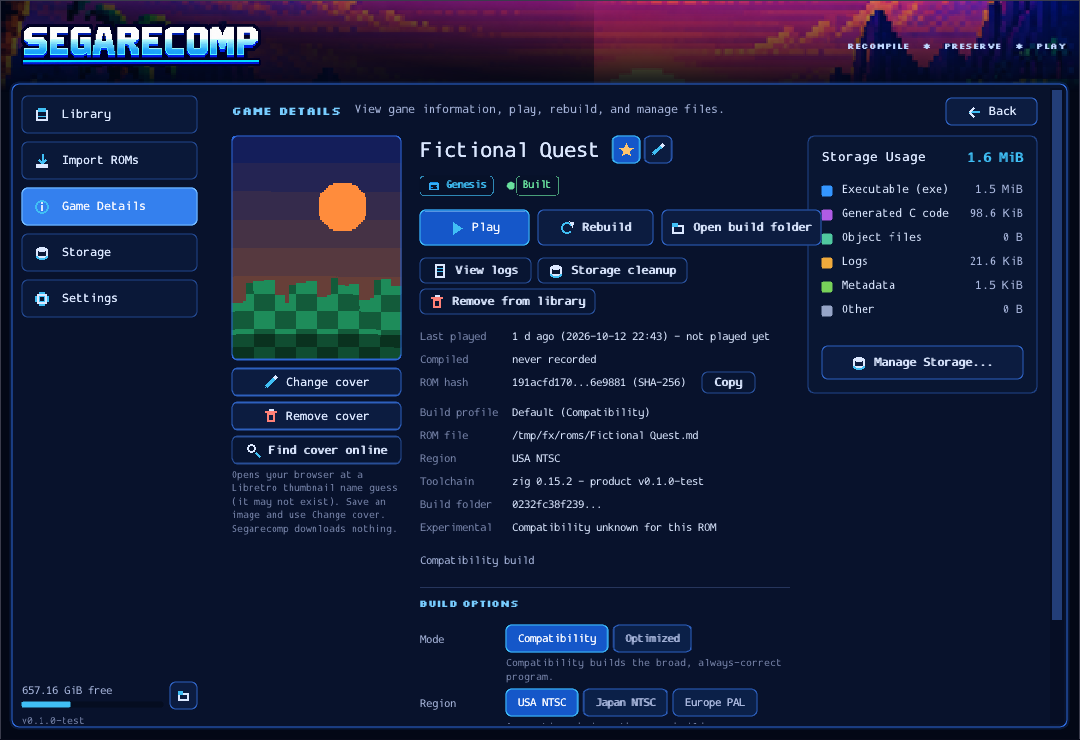
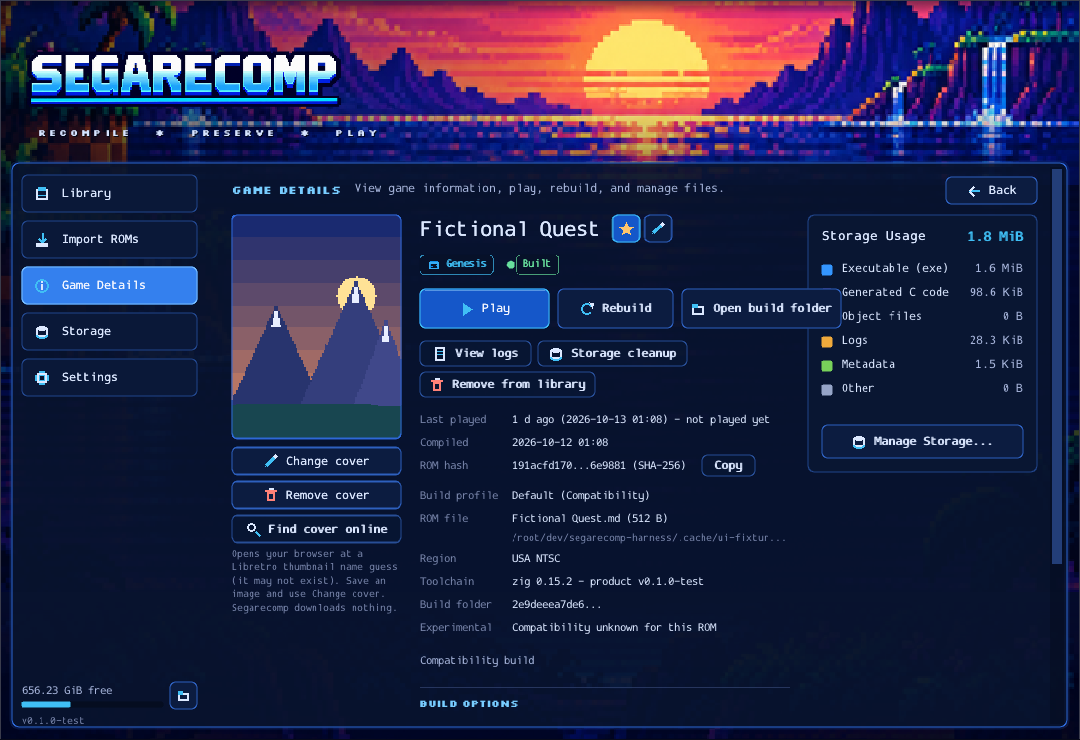
Screenshots of the new binaries (launcher, states, viewer Genesis/SMS, input diagnostics); review hooks; Play button

diff --git a/libs/viewer/test/sv_gallery.c b/libs/viewer/test/sv_gallery.c
@@ -1,7 +1,7 @@
 /* SEG-058: renders the shared viewer's screens from a FICTIONAL synthetic picture (no game, no ROM) under the dummy video driver, for
  * documentation screenshots and manual review. Not a test (nothing is asserted) and never shipped.
  *
- *   sv_gallery <out-dir> <genesis|sms> [WxH]
+ *   sv_gallery <out-dir> <genesis|sms|sms224> [WxH]   (sms224: the Master System's 224-line mode)
  *
  * WxH is the window (output) size in pixels (default: the viewer's own default window). SEGARECOMP_ASSETS points at the launcher assets (icons, wordmark);
  * SV_GALLERY_PAD = none | live | raw | locked picks the virtual controller shown on the Controller status page (live: a gamepad with some buttons held;
@@ -113,10 +113,10 @@ int main(int argc, char **argv) {
   SDL_JoystickID pad_id = 0;
   SDL_Joystick *pad_joy = NULL;
   const char *pad_mode = SDL_getenv("SV_GALLERY_PAD");
-  if (argc < 3) { fprintf(stderr, "usage: %s <out-dir> <genesis|sms> [WxH]\n", argv[0]); return 2; }
+  if (argc < 3) { fprintf(stderr, "usage: %s <out-dir> <genesis|sms|sms224> [WxH]\n", argv[0]); return 2; }
   if (argc > 3 && sscanf(argv[3], "%dx%d", &win_w, &win_h) != 2) { fprintf(stderr, "bad size %s\n", argv[3]); return 2; }
   g_out = argv[1];
-  sms = strcmp(argv[2], "sms") == 0;
+  sms = strcmp(argv[2], "sms") == 0 || strcmp(argv[2], "sms224") == 0;
 #if SDL_VERSION_ATLEAST(3, 4, 0)
   g_ext = "png";
 #else
@@ -137,7 +137,7 @@ int main(int argc, char **argv) {
   SDL_setenv_unsafe("SEGARECOMP_VIEWER_SETTINGS", settings, 1);
[1 lines of base64/hex data omitted]
   SDL_setenv_unsafe("SEGARECOMP_LAUNCHED", "1", 1);
-  w = sms ? 256 : 320; h = sms ? 192 : 224;
+  w = sms ? 256 : 320; h = sms ? (strcmp(argv[2], "sms224") == 0 ? 224 : 192) : 224;
   memset(&cfg, 0, sizeof cfg);
   cfg.system = sms ? SV_SYSTEM_SMS : SV_SYSTEM_GENESIS;
   cfg.title = "gallery";

diff --git a/apps/segarecomp-launcher/app.cpp b/apps/segarecomp-launcher/app.cpp
@@ -900,7 +900,18 @@ int App::run() {
     const std::size_t index = static_cast<std::size_t>(std::atoi(shot_page_.c_str() + 8));
     const auto visible = visible_entries();
     if (index < visible.size()) open_details(visible[index]->id());
+    if (SDL_getenv("SEGARECOMP_SHOT_LOG") != nullptr) show_log_ = true;  // review aid: the log panel expanded
   } else if (shot_page_ == "list") { settings_.view = "list"; }
+  if (const char *drop = SDL_getenv("SEGARECOMP_SHOT_DROP")) {  // review aid: import several files at once, as a drag-and-drop would
+    std::vector<std::string> paths;
+    for (std::string rest = drop; !rest.empty();) {
+      const std::size_t cut = rest.find(';');
+      paths.push_back(rest.substr(0, cut));
+      rest = cut == std::string::npos ? std::string() : rest.substr(cut + 1);
+    }
+    start_import(std::move(paths), false);
+    go(Page::import_page);
+  }
   if (SDL_getenv("SEGARECOMP_SHOT_SELECT")) { select_mode_ = true; for (const auto *e : visible_entries()) { selected_.insert(e->id()); if (selected_.size() >= 2) break; } }
   bool running = true;
   while (running) {
@@ -942,7 +953,7 @@ int App::run() {
     SDL_SetRenderDrawColor(renderer_, 8, 11, 26, 255);
     SDL_RenderClear(renderer_);
     ImGui_ImplSDLRenderer3_RenderDrawData(ImGui::GetDrawData(), renderer_);
-    if (!shot_path_.empty() && frame_ >= shot_frame_ && !status_pending_ && !scanning_ && !job_) {
+    if (!shot_path_.empty() && frame_ >= shot_frame_ && !status_pending_ && !scanning_ && (!job_ || SDL_getenv("SEGARECOMP_SHOT_DURING_BUILD") != nullptr) && !import_job_.valid()) {
       if (SDL_Surface *surface = SDL_RenderReadPixels(renderer_, nullptr)) { SDL_SaveBMP(surface, shot_path_.c_str()); SDL_DestroySurface(surface); }
       running = false;
     }

diff --git a/apps/segarecomp-launcher/app_pages.cpp b/apps/segarecomp-launcher/app_pages.cpp
@@ -242,9 +242,9 @@ void App::draw_details(float w, float h) {
     ImGui::SetCursorScreenPos(ImVec2(rx.x, p.y + ctx_.u(34.0F)));
   }
   {
-    const float bh = ctx_.u(36.0F);
+    const float bh = ctx_.u(40.0F);
     const bool can_play = info.status == GameStatus::ready && !game_ && !job_ && !maintenance_running_;
-    if (button(ctx_, "play", "Play", ImVec2(ctx_.u(110.0F), bh), Style::primary, can_play, ctx_.icon("play"))) { restarted_this_play_ = false; notices_.erase(entry->id()); show_log_ = false; launch(entry->id(), false); }
+    if (button(ctx_, "play", "Play", ImVec2(ctx_.u(130.0F), bh), Style::primary, can_play, ctx_.icon("play"))) { restarted_this_play_ = false; notices_.erase(entry->id()); show_log_ = false; launch(entry->id(), false); }
     ImGui::SameLine(0.0F, ctx_.u(8.0F));
     const char *build_label = info.status == GameStatus::ready ? "Rebuild" : (info.status == GameStatus::metadata_only ? "Rebuild" : (info.status == GameStatus::failed ? "Try again" : (info.status == GameStatus::stale ? "Recompile" : "Build")));
     const bool mapper_needed = entry->platform_id == "master-system" && entry->mapper.empty() && entry->mapper_manifest_sha256.empty();

diff --git a/apps/segarecomp-launcher/app_screens.cpp b/apps/segarecomp-launcher/app_screens.cpp
@@ -93,6 +93,7 @@ void App::draw() {
     const float display_scale = SDL_GetWindowDisplayScale(window_), density = SDL_GetWindowPixelDensity(window_);
     float s = (display_scale > 0.0F && density > 0.0F) ? std::clamp(display_scale / density, 1.0F, 4.0F) : 1.0F;
     if (SDL_getenv("SEGARECOMP_SHOT_SIZE")) s = 1.0F;
+    if (const char *forced = SDL_getenv("SEGARECOMP_SHOT_SCALE")) s = std::clamp(static_cast<float>(std::atof(forced)), 0.5F, 4.0F);  // review aid: a HiDPI display scale
     ctx_.S = settings_.compact ? s * 0.88F : s;
   }
   ImGui::SetNextWindowPos(ImVec2(0, 0));

diff --git a/docs/product/launcher-library.md b/docs/product/launcher-library.md
@@ -123,22 +123,14 @@ the Master System/Genesis review hooks (`SEGARECOMP_SHOT_ROM`, `..._POLICY`, `..
 
 ## Screenshots (fictional fixtures)
 
-All images are rendered from fictional, project-authored data: synthetic ROMs built through the packaged launcher (`tools/launcher_ui_fixture.py`), procedurally drawn covers, and a synthetic picture for the viewer (`libs/viewer/test/sv_gallery.c`). No commercial ROM, cover or screenshot is involved. The statuses, sizes and paths in them are real measurements of that fixture; "last played" times are set by the fixture script.
+All images are real captures of the built binaries, rendered from fictional, project-authored data: synthetic ROMs built through the packaged launcher
+(`tools/launcher_ui_fixture.py`, procedurally drawn covers for some games and none for others) and a synthetic picture for the viewer
+(`libs/viewer/test/sv_gallery.c`). No commercial ROM, cover or screenshot is involved; the design concept boards are not part of the repository.
 
-| Launcher | |
-|---|---|
-| Library home (grid) | `screenshots/launcher/01_library_home.png` |
-| Library (list) / select mode | `02_library_list.png`, `12_library_select.png` |
-| Game details | `03_game_details.png` |
-| Import ROMs | `04_import.png` |
-| Storage management / cleanup confirmation | `06_storage.png`, `05_storage_cleanup_dialog.png` |
-| Settings tabs | `07_settings_library.png` ... `11_settings_about.png` |
-
-| In-game viewer (Genesis; Master System in `viewer-sms/`) | |
-|---|---|
-| Gameplay, pause menu, quick settings | `screenshots/viewer-genesis/01_gameplay.png`, `02_pause_menu.png`, `03_quick_settings.png` |
-| Video & display with live preview, controls, audio, system, quit confirmation | `04_video_display.png`, `05_controls.png`, `06_audio.png`, `07_system.png`, `08_quit_confirmation.png` |
-| CRT presets on the same picture | `crt_pixel_perfect.png`, `crt_soft.png`, `crt_classic.png`, `crt_arcade.png` |
-| Toast | `09_toast.png` |
-
-The viewer menu uses a generated bitmap font (ProggyClean for text, Silkscreen Bold for headings; `tools/gen_viewer_font.py`) scaled by whole numbers; the launcher uses the embedded scalable face for text and Silkscreen Bold for titles.
+* `screenshots/launcher/` - 1080x740: library grid/list/select, details, import, storage and its cleanup dialog, all settings tabs including Input Diagnostics.
+  `launcher-small/` - 720x520 (the minimum size). `launcher-states/` - ready, metadata-only, stale, ROM missing, failed (with log), not built, several files
+  imported at once, a build in progress.
+* `screenshots/viewer-genesis/` (1920x1080), `viewer-sms/` (768x576, 192 lines), `viewer-sms-224/` (224-line mode): gameplay, HUD, pause menu, quick settings,
+  video and display with live preview, controls, controller status, audio, system, quit confirmation, toast, the four CRT presets.
+* `screenshots/input-diagnostics/` - launcher states A (no controller), B (joystick without mapping), C (open failure), OK (live virtual gamepad) and the viewer's
+  Controller status page for the same cases. **These use SDL virtual joysticks, not a physical Switch 2 Pro Controller.**
